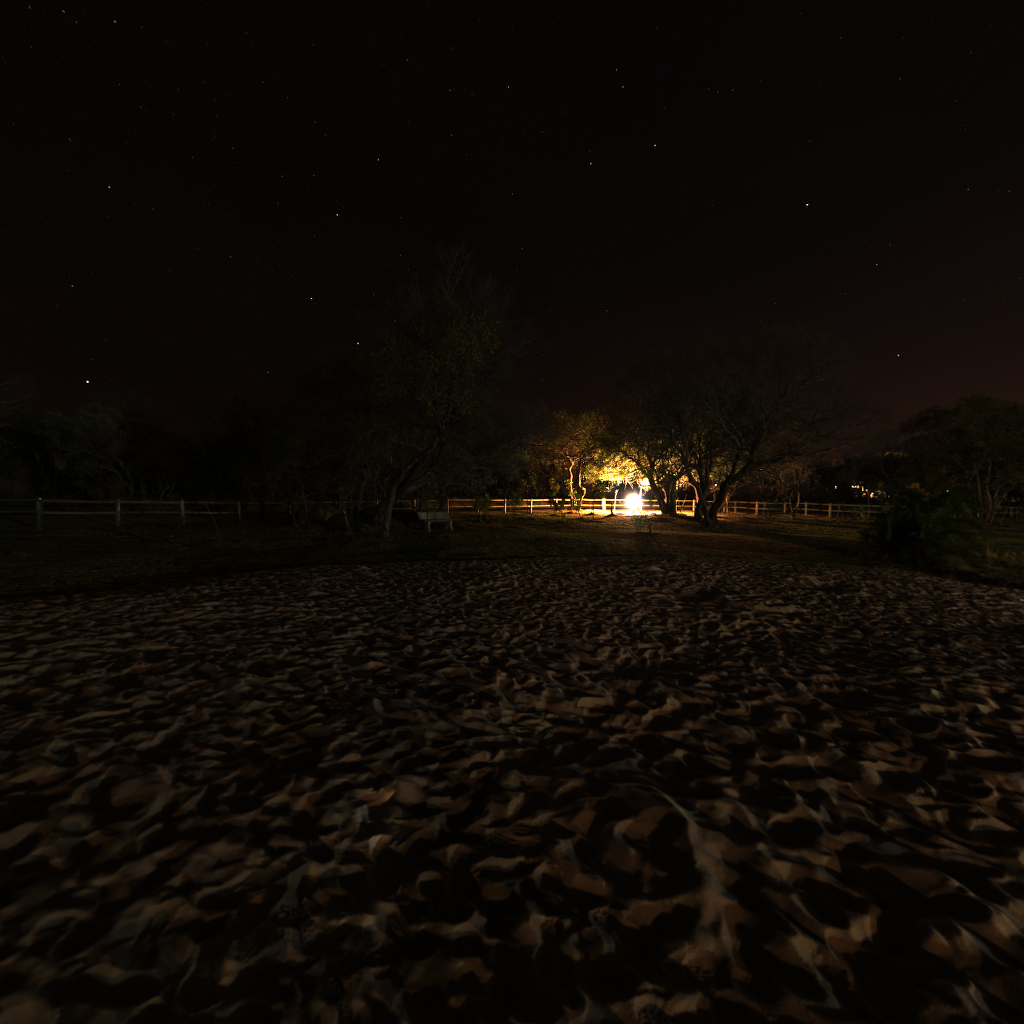
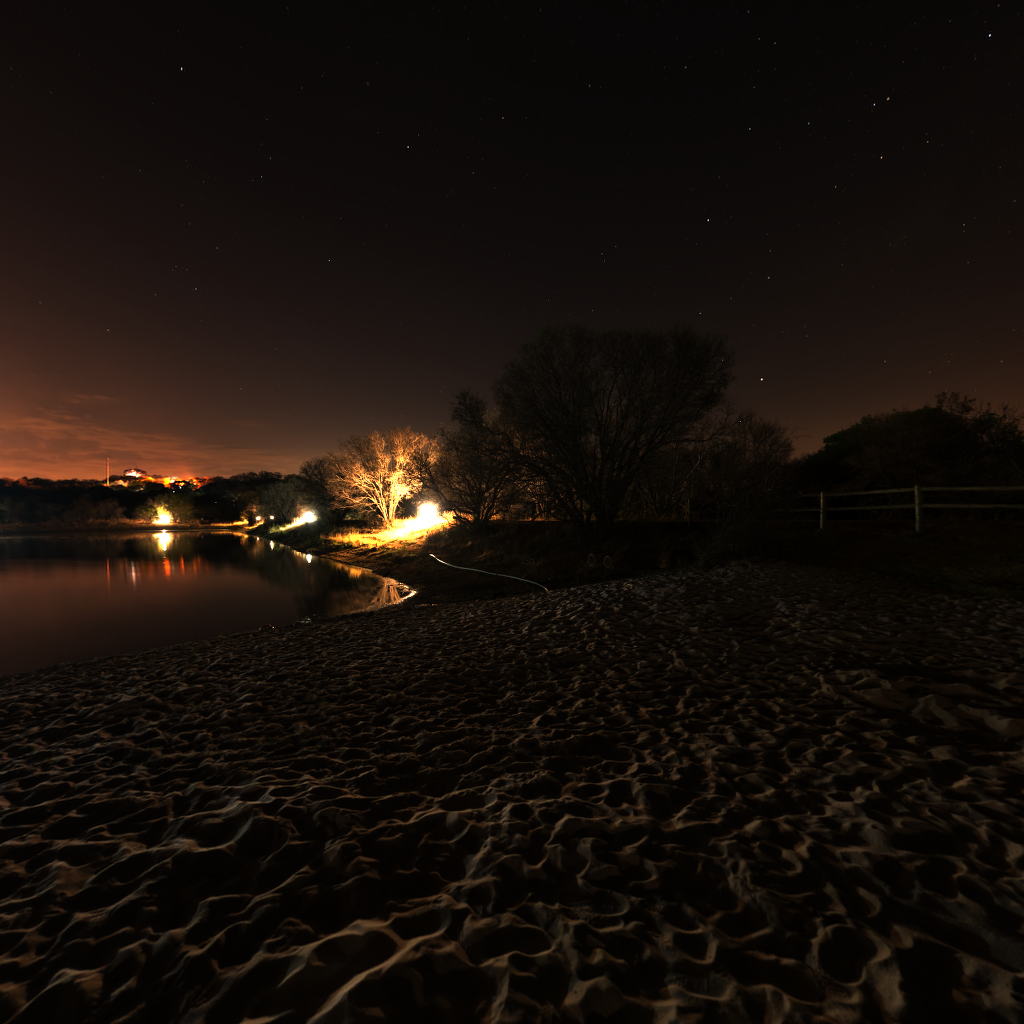
correction to mouse movement and cubemap rotation

diff --git a/src/entry.cpp b/src/entry.cpp
@@ -17,16 +17,6 @@ int main(void) {
   std::string teapotPath = "res/teapot/teapot.obj";
   std::string spherePath = "res/sphere/sphere.obj";
 
-  Math::Matrix4 B(0, 0, -1, 2, //
-                  0, 1, 0, 0, //
-                  9, 0, 0, 0, //
-                  0, 0, 0, 1  //
-  );
-
-  B.print();
-  B.inverse();
-  B.print();
-
   try {
     std::vector<Game::ModelInfo> models;
     Game::ModelInfo sphere;
@@ -86,9 +76,9 @@ int main(void) {
     models.push_back(cube2);
 
     std::array<std::string, 6> env = {
-        "res/env/dark-desert/dark_sand_front.png", "res/env/dark-desert/dark_sand_back.png",
+        "res/env/dark-desert/dark_sand_right.png", "res/env/dark-desert/dark_sand_left.png",
         "res/env/dark-desert/dark_sand_top.png",   "res/env/dark-desert/dark_sand_bottom.png",
-        "res/env/dark-desert/dark_sand_right.png", "res/env/dark-desert/dark_sand_left.png"};
+        "res/env/dark-desert/dark_sand_front.png", "res/env/dark-desert/dark_sand_back.png"};
 
     Game::Scene scene(models, env);
     // Game::Scene scene(models);
